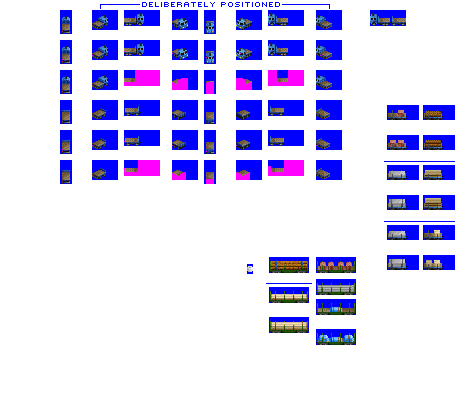
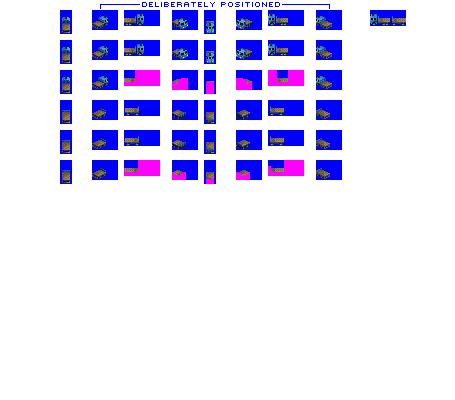
Change: cargo generation enabled for all flatbed haulers

diff --git a/src/vehicles/stancliffe.py b/src/vehicles/stancliffe.py
@@ -12,13 +12,16 @@ consist = FlatBedHauler(id = 'stancliffe',
 consist.add_unit(weight = 20,
                 capacity = 0,
                 vehicle_length = 3,
-                effects = ['EFFECT_SPRITE_ELECTRIC, 0, 0, 10'])
+                effects = ['EFFECT_SPRITE_ELECTRIC, 0, 0, 10'],
+                always_use_same_spriterow = True)
 
 consist.add_unit(weight = 5,
                 capacity = 24,
                 vehicle_length = 4,
+                cargo_length = 4,
                 repeat = 4)
 
 consist.add_model_variant(intro_date=0,
                        end_date=global_constants.max_game_date,
-                       spritesheet_suffix=0)
+                       spritesheet_suffix=0,
+                       graphics_processor=consist.graphics_processors[0])

diff --git a/src/vehicles/rackwood.py b/src/vehicles/rackwood.py
@@ -12,13 +12,16 @@ consist = FlatBedHauler(id = 'rackwood',
 consist.add_unit(weight = 20,
                 capacity = 0,
                 vehicle_length = 3,
-                effects = ['EFFECT_SPRITE_ELECTRIC, 0, 0, 10'])
+                effects = ['EFFECT_SPRITE_ELECTRIC, 0, 0, 10'],
+                always_use_same_spriterow = True)
 
 consist.add_unit(weight = 5,
                 capacity = 24,
                 vehicle_length = 4,
+                cargo_length = 4,
                 repeat = 3)
 
 consist.add_model_variant(intro_date=0,
                        end_date=global_constants.max_game_date,
-                       spritesheet_suffix=0)
+                       spritesheet_suffix=0,
+                       graphics_processor=consist.graphics_processors[0])

diff --git a/src/vehicles/windergill.py b/src/vehicles/windergill.py
@@ -11,12 +11,15 @@ consist = FlatBedHauler(id = 'windergill',
 consist.add_unit(weight = 10,
                 capacity = 15,
                 vehicle_length = 5,
+                cargo_length = 3,
                 visual_effect = 'VISUAL_EFFECT_DIESEL')
 
 consist.add_unit(weight = 5,
                 capacity = 15,
-                vehicle_length = 4)
+                vehicle_length = 4,
+                cargo_length = 4)
 
 consist.add_model_variant(intro_date=0,
                        end_date=global_constants.max_game_date,
-                       spritesheet_suffix=0)
+                       spritesheet_suffix=0,
+                       graphics_processor=consist.graphics_processors[0])

diff --git a/src/vehicles/big_rigg.py b/src/vehicles/big_rigg.py
@@ -11,12 +11,15 @@ consist = FlatBedHauler(id = 'big_rigg',
 consist.add_unit(weight = 10,
                 capacity = 20,
                 vehicle_length = 5,
+                cargo_length = 3,
                 visual_effect = 'VISUAL_EFFECT_DIESEL')
 
 consist.add_unit(weight = 5,
                 capacity = 20,
-                vehicle_length = 4)
+                vehicle_length = 4,
+                cargo_length = 4)
 
 consist.add_model_variant(intro_date=0,
                        end_date=global_constants.max_game_date,
-                       spritesheet_suffix=0)
+                       spritesheet_suffix=0,
+                       graphics_processor=consist.graphics_processors[0])

diff --git a/src/road_hog.py b/src/road_hog.py
@@ -24,11 +24,11 @@ print("[IMPORT VEHICLES] iron_horse.py")
 
 from rosters import registered_rosters
 
-#from rosters import brit
-#brit.roster.register()
+from rosters import brit
+brit.roster.register()
 
-from rosters import test
-test.roster.register()
+#from rosters import test
+#test.roster.register()
 
 #from rosters import wasteland
 #wasteland.roster.register()
